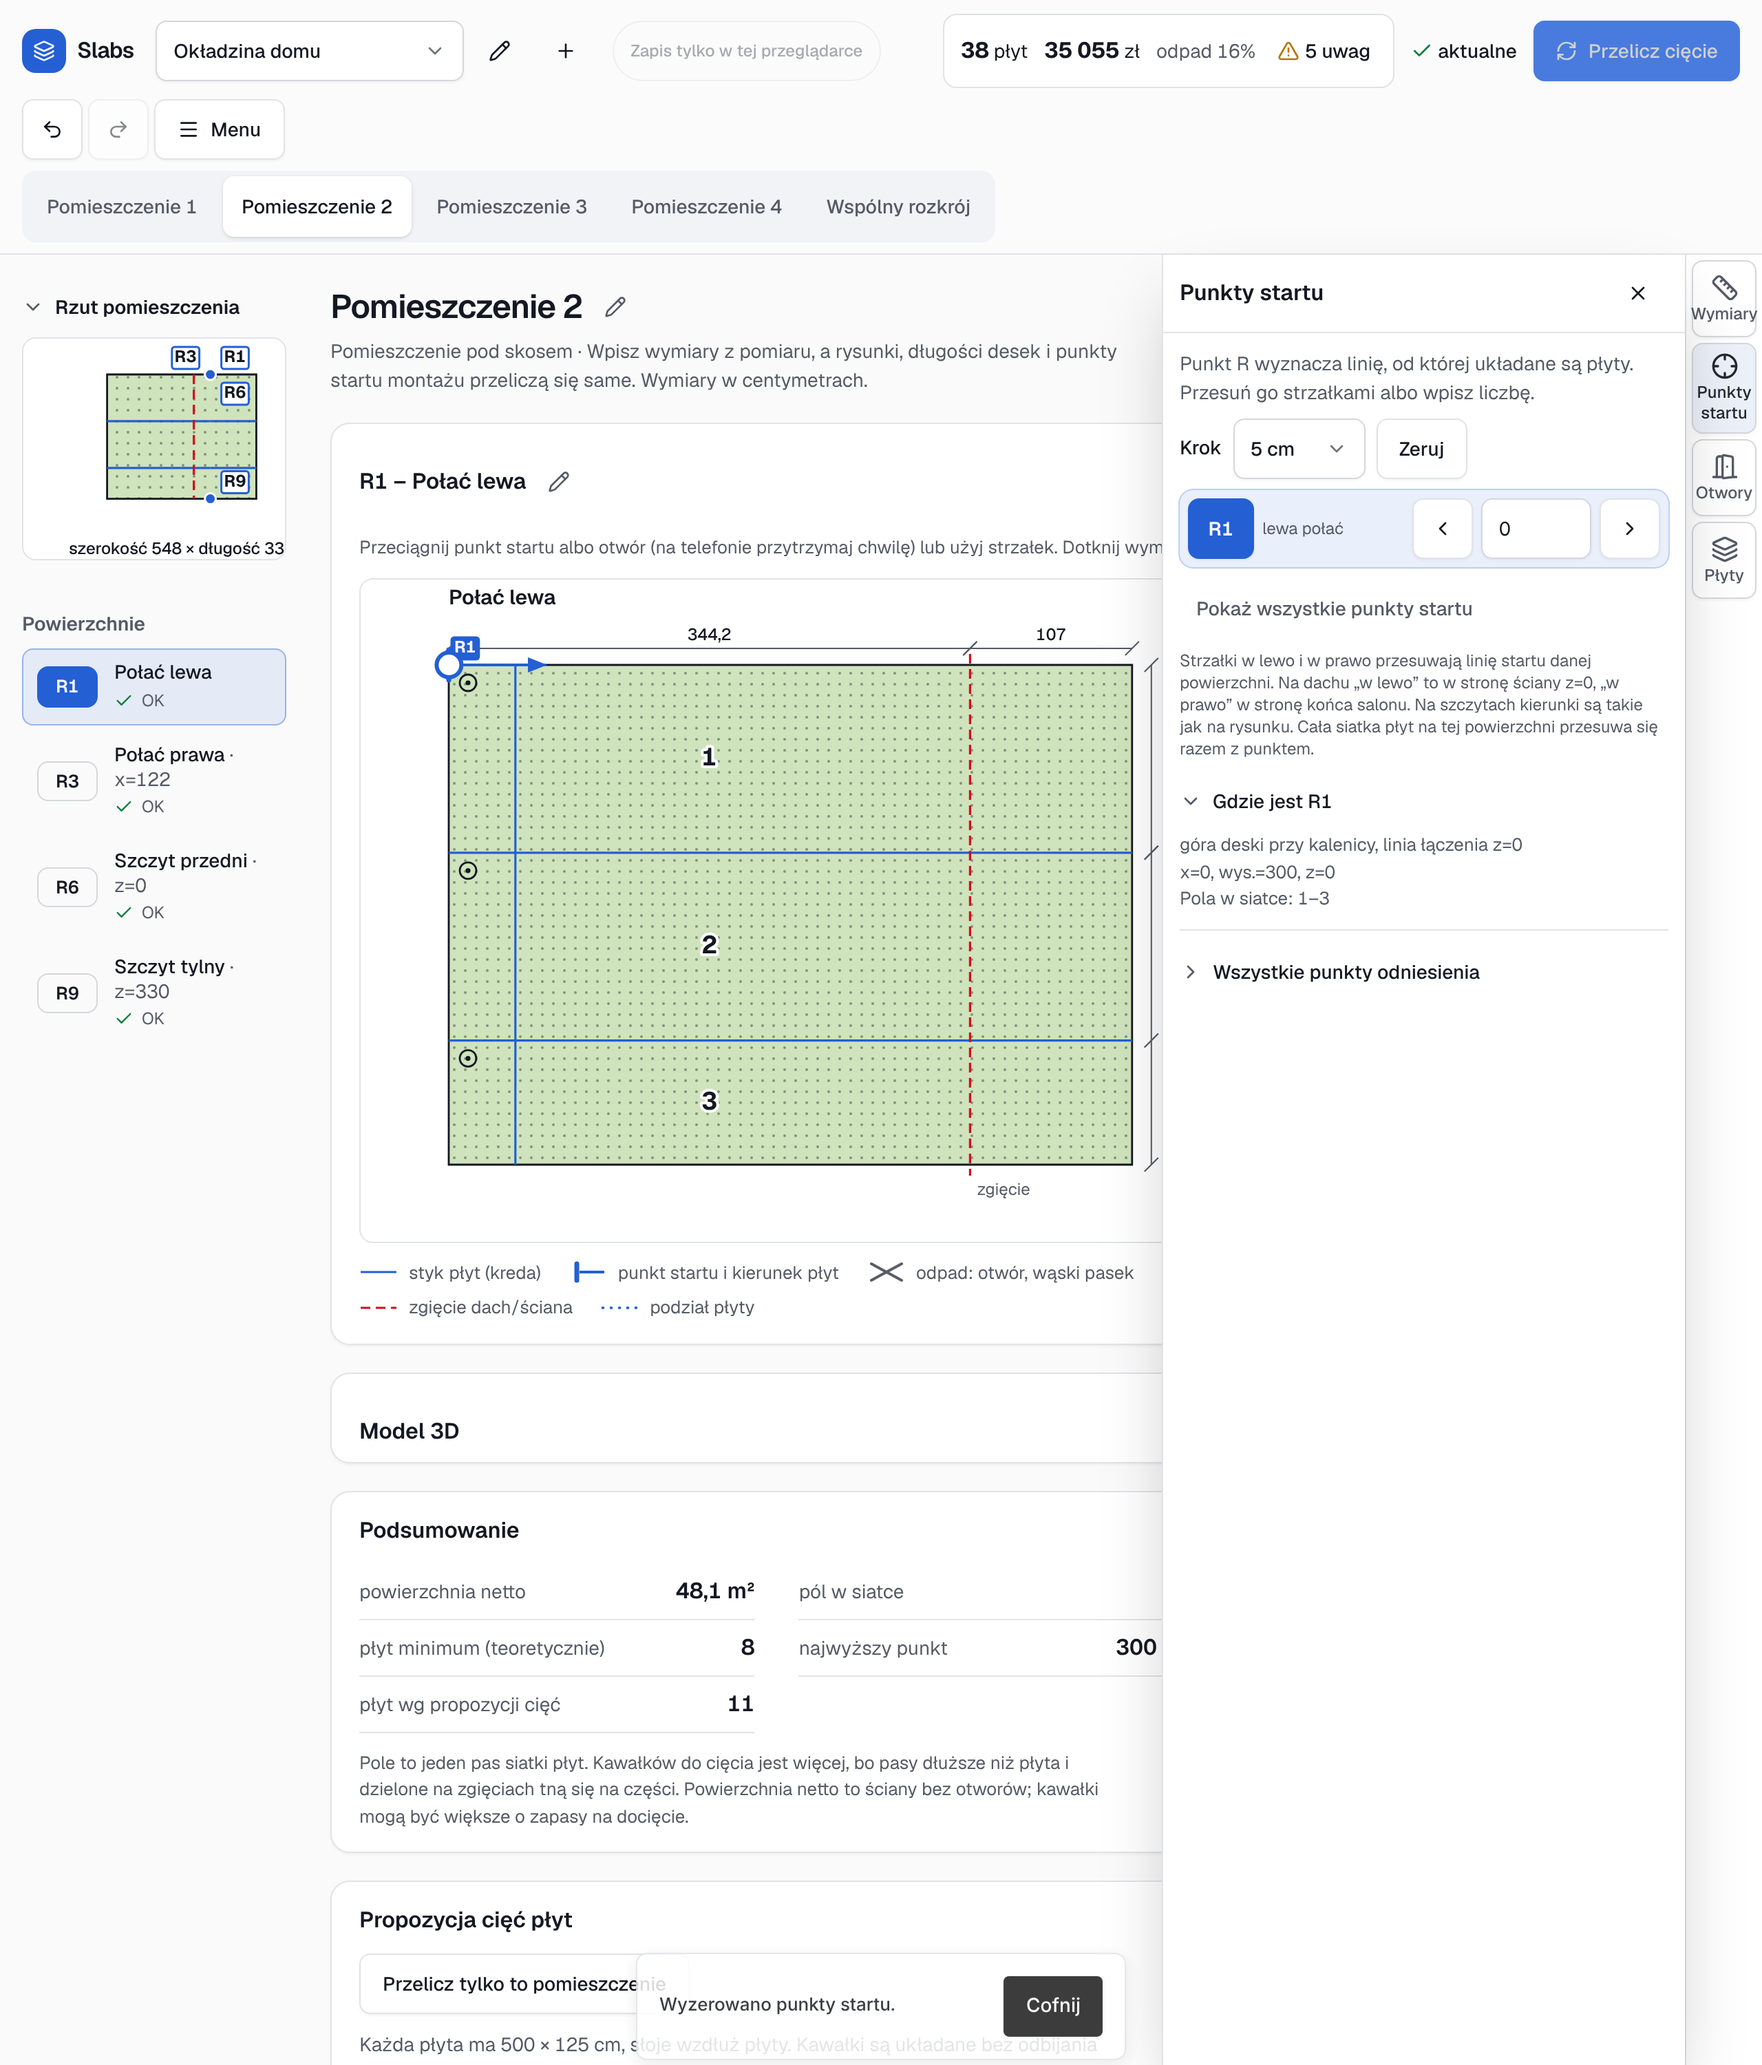
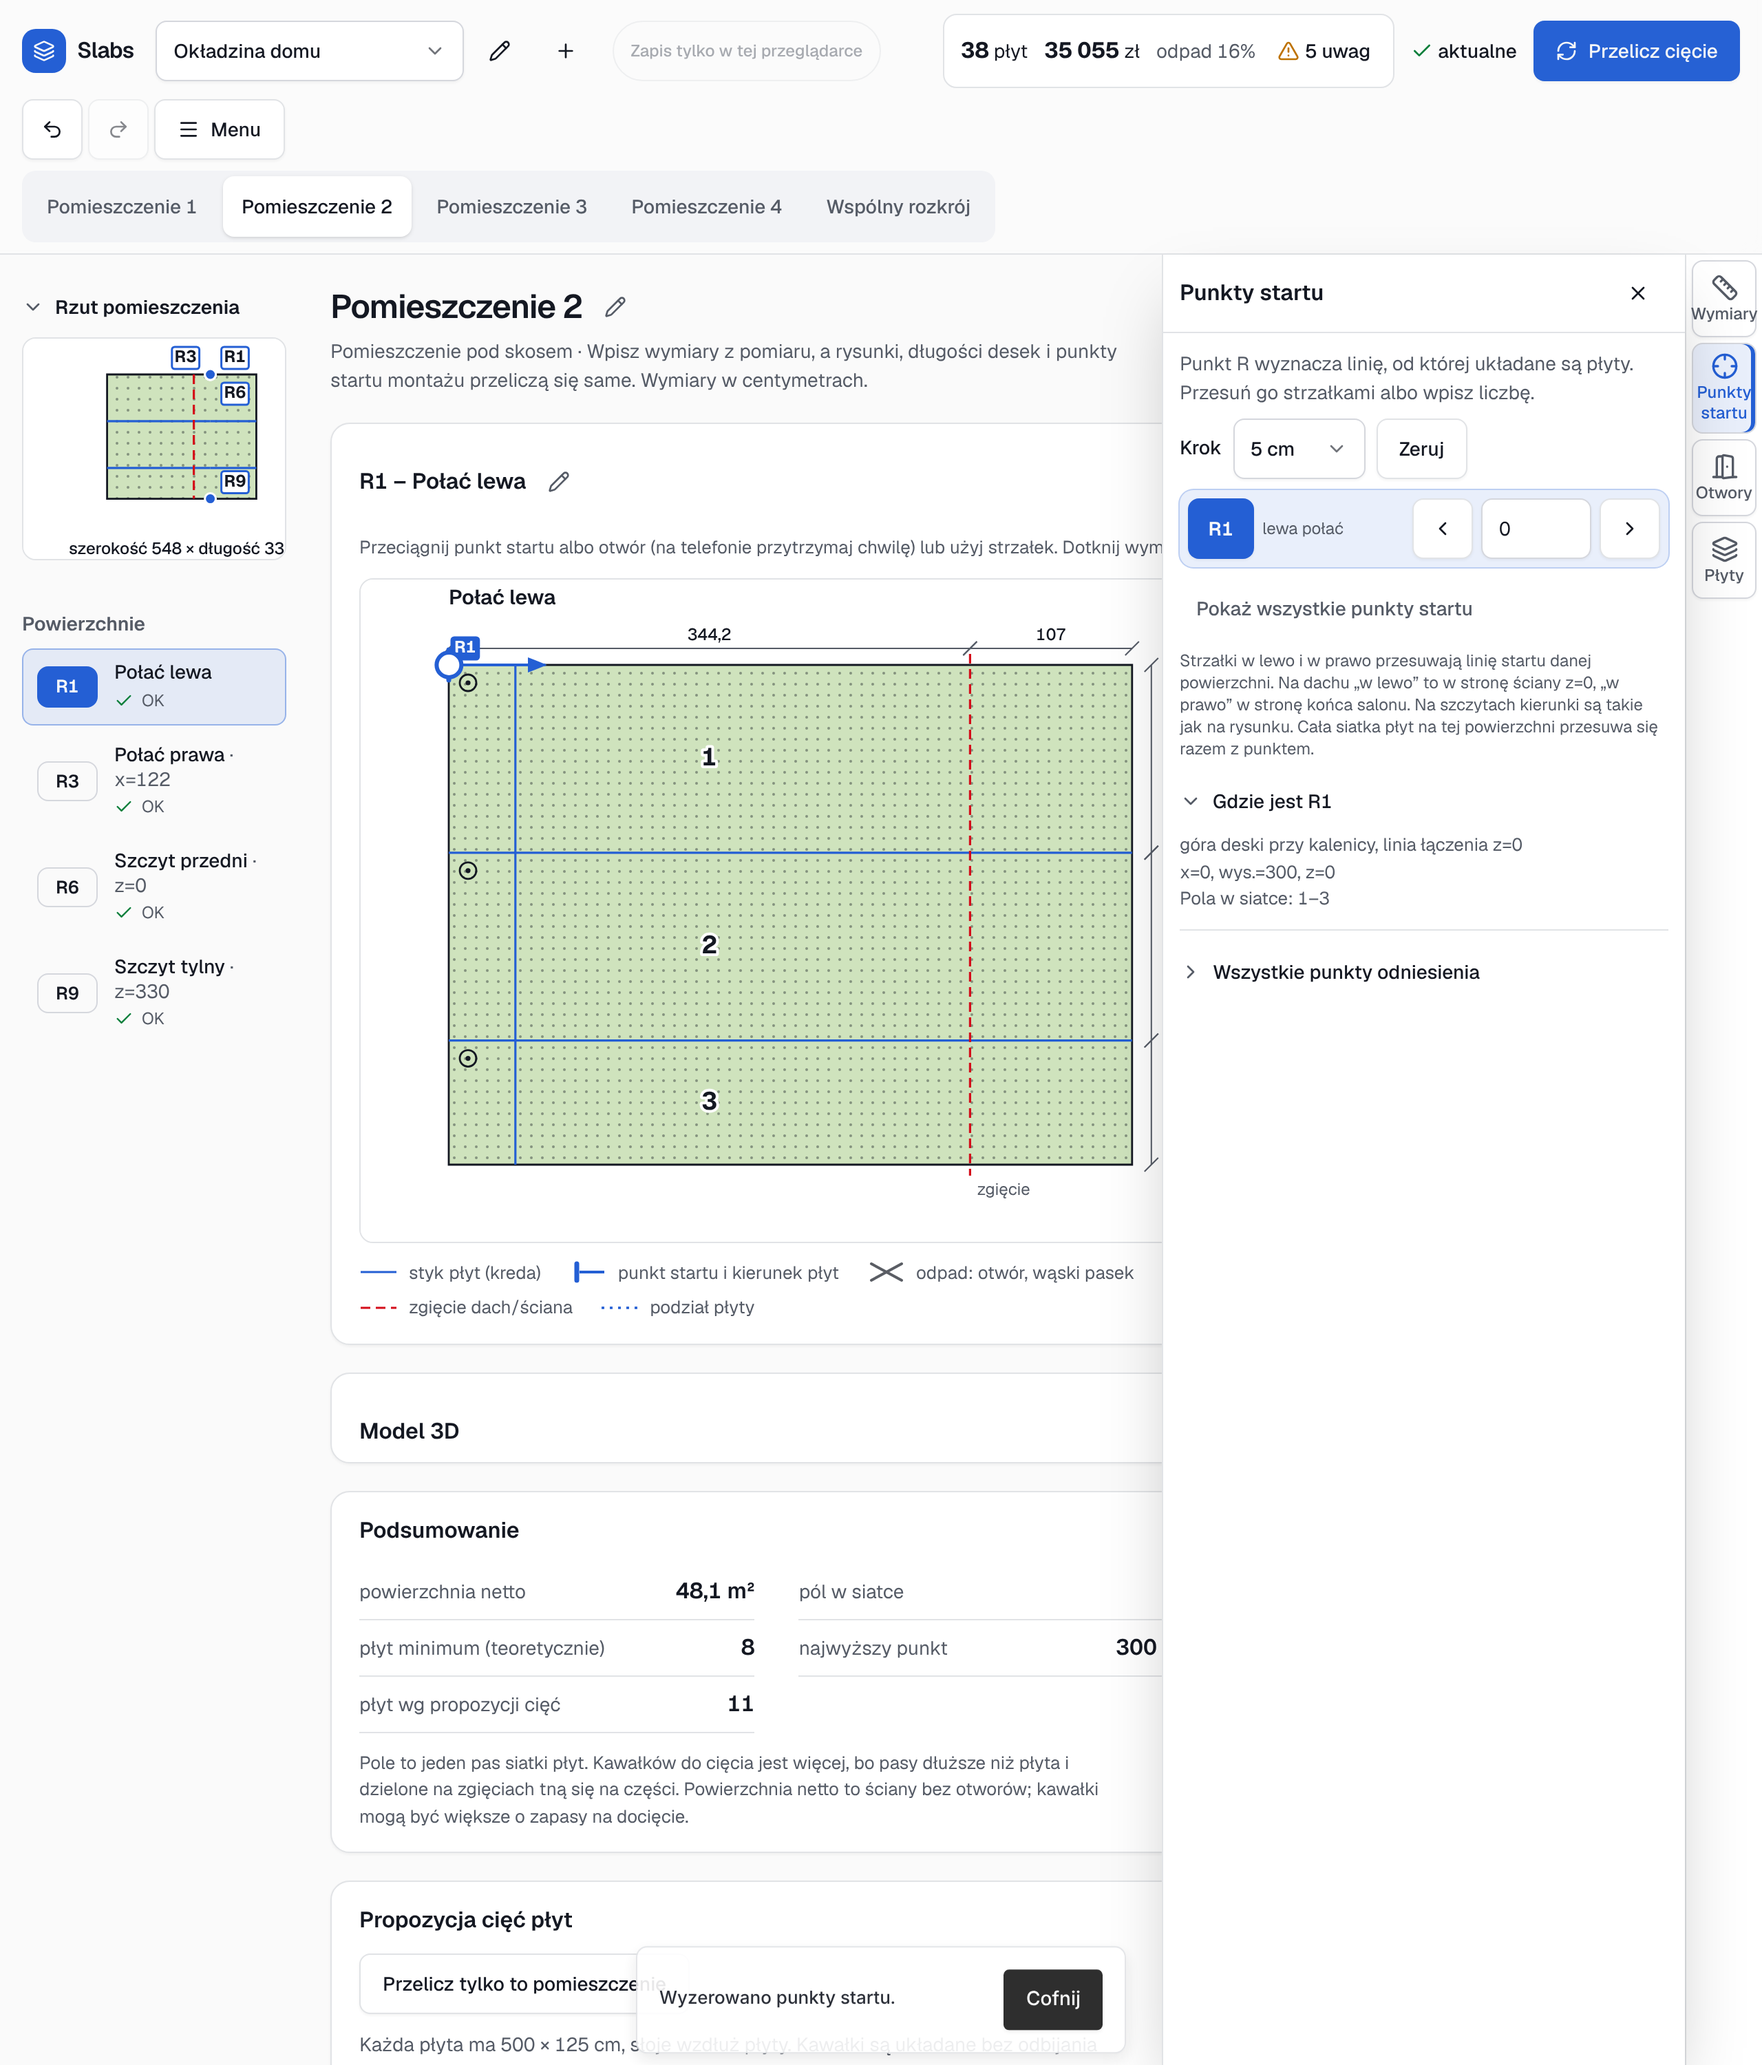
Critique fixes: rail labels, cut blocked while a dimension is missing, lighter phone sheet; STATUS with critique score 28/40
Claude-Session: https://claude.ai/code/session_01HB857o7nj1wKK8UA3BC3TK

diff --git a/packages/web/src/components/MeasurePanel.tsx b/packages/web/src/components/MeasurePanel.tsx
@@ -49,7 +49,7 @@ function RailButton({ k, room, horizontal }: { k: PanelSection; room: RoomId; ho
   return (
     <button
       type="button" data-rail={k}
-      className={cn('relative flex min-h-14 flex-col items-center justify-center gap-0.5 rounded-md px-1 py-1.5 text-center text-xs leading-tight font-medium outline-none hover:bg-accent focus-visible:ring-[3px] focus-visible:ring-ring/50', active ? 'bg-accent text-accent-foreground' : 'text-muted-foreground', horizontal && 'flex-1')}
+      className={cn('relative flex min-h-14 flex-col items-center justify-center gap-0.5 rounded-md px-0 py-1.5 text-center text-xs leading-tight font-medium break-words outline-none hover:bg-accent focus-visible:ring-[3px] focus-visible:ring-ring/50', active ? 'bg-primary/10 text-primary shadow-[inset_-3px_0_0_var(--primary)]' : 'text-muted-foreground', horizontal && 'flex-1')}
       aria-pressed={active} aria-controls="measure-panel" aria-keyshortcuts="M"
       aria-label={active ? s.panel.hide(name) : s.panel.show(name)}
       title={s.panel.shortcutHint}
@@ -61,7 +61,7 @@ function RailButton({ k, room, horizontal }: { k: PanelSection; room: RoomId; ho
     >
       <Icon className="size-5" aria-hidden="true" />
       <span aria-hidden="true">{name}</span>
-      {k === 'dims' && missing > 0 && <span className="absolute top-1 right-1.5 inline-flex min-w-4 items-center justify-center rounded-full bg-destructive px-1 text-[11px] leading-4 font-semibold text-white" aria-label={s.panel.missingShort}>{missing}</span>}
+      {k === 'dims' && missing > 0 && <span className="absolute top-1 right-1.5 inline-flex min-w-4 items-center justify-center rounded-full bg-destructive px-1 text-xs leading-4 font-semibold text-white" aria-label={s.panel.missingShort}>{missing}</span>}
     </button>
   );
 }
@@ -123,7 +123,7 @@ export function MeasurePanel({ children }: { children: (section: PanelSection) =
         <div className="min-h-0 flex-1 overflow-y-auto p-3">{open && children(section)}</div>
       </aside>
       <Sheet open={sheet} onOpenChange={(o) => { setSheet(o); if (!o) back(); }}>
-        <SheetContent side="bottom" closeLabel={s.panel.close} className="md:hidden" aria-describedby="sheet-desc" onCloseAutoFocus={(e) => { e.preventDefault(); back(); }}>
+        <SheetContent side="bottom" closeLabel={s.panel.close} className="min-h-[40dvh] max-h-[55dvh] md:hidden" aria-describedby="sheet-desc" onCloseAutoFocus={(e) => { e.preventDefault(); back(); }}>
           <SheetTitle className="px-3 pt-3 text-base font-semibold" id="sheet-h">{labelOf(section)}</SheetTitle>
           <SheetDescription id="sheet-desc" className="sr-only">{s.panel.title}</SheetDescription>
           <div className="flex gap-1 px-3" role="tablist" aria-label={s.panel.rail}>

diff --git a/packages/web/src/components/ui/sheet.tsx b/packages/web/src/components/ui/sheet.tsx
@@ -15,12 +15,12 @@ export const SheetContent = React.forwardRef<
   React.ComponentPropsWithoutRef<typeof DialogPrimitive.Content> & { side?: 'bottom' | 'right'; closeLabel?: string }
 >(({ className, children, side = 'bottom', closeLabel = 'Close', ...props }, ref) => (
   <DialogPrimitive.Portal>
-    <DialogPrimitive.Overlay className="fixed inset-0 z-50 bg-black/40 data-[state=closed]:animate-out data-[state=closed]:fade-out-0 data-[state=open]:animate-in data-[state=open]:fade-in-0" />
+    <DialogPrimitive.Overlay className="fixed inset-0 z-50 bg-black/20 data-[state=closed]:animate-out data-[state=closed]:fade-out-0 data-[state=open]:animate-in data-[state=open]:fade-in-0" />
     <DialogPrimitive.Content
       ref={ref}
       className={cn(
         'fixed z-50 flex flex-col gap-2 border bg-card text-card-foreground shadow-lg outline-none data-[state=closed]:animate-out data-[state=open]:animate-in',
-        side === 'bottom' && 'inset-x-0 bottom-0 max-h-[88dvh] rounded-t-xl border-b-0 data-[state=closed]:slide-out-to-bottom data-[state=open]:slide-in-from-bottom',
+        side === 'bottom' && 'inset-x-0 bottom-0 rounded-t-xl border-b-0 data-[state=closed]:slide-out-to-bottom data-[state=open]:slide-in-from-bottom',
         side === 'right' && 'inset-y-0 right-0 w-[380px] max-w-full border-r-0 data-[state=closed]:slide-out-to-right data-[state=open]:slide-in-from-right',
         className,
       )}

diff --git a/packages/web/src/components/RoomScreen.tsx b/packages/web/src/components/RoomScreen.tsx
@@ -182,7 +182,8 @@ export function RoomScreen({ id }: { id: RoomId }) {
             <div className="flex flex-wrap items-center gap-3">
               {busy
                 ? <Button variant="outline" onClick={() => cancelCut(id)}>{s.shared.cancel}</Button>
-                : <Button variant="outline" onClick={() => runCut(id, req)}>{s.room.cutBtn}</Button>}
+                : <Button variant="outline" disabled={missingHere} onClick={() => runCut(id, req)}>{s.room.cutBtn}</Button>}
+              {missingHere && !busy && <Button variant="link" className="h-auto min-h-11 px-1 underline" onClick={() => usePanel.getState().openAt('dims', { kind: 'dim', room: id, key: empty.find((x) => x.startsWith(id + '.'))!.slice(id.length + 1) })}>{s.panel.cutBlocked}</Button>}
               {busy && <span className="muted" role="status">{s.shared.running}</span>}
             </div>
             {entry && !fresh && <p className="flex flex-wrap items-center gap-2 text-sm"><span className="badge">{s.room.stale}</span><span className="text-muted-foreground">{s.room.staleNote}</span></p>}

diff --git a/packages/web/src/i18n/en.ts b/packages/web/src/i18n/en.ts
@@ -81,7 +81,7 @@ export const en: Strings = {
   panel: {
     rail: 'Measurements and settings panel',
     title: 'Measurement panel',
-    dims: 'Dimensions', starts: 'Start points', openings: 'Openings', plates: 'Plates',
+    dims: 'Sizes', starts: 'Starts', openings: 'Openings', plates: 'Plates',
     show: (n: string) => `Open panel: ${n}`,
     hide: (n: string) => `Close panel: ${n}`,
     close: 'Close panel (Esc)',
@@ -92,6 +92,7 @@ export const en: Strings = {
     missingHead: (n: number) => `${n} ${n === 1 ? 'dimension is' : 'dimensions are'} missing:`,
     missingShort: 'a dimension is missing',
     showInPanel: 'Show in panel',
+    cutBlocked: 'A dimension is missing: enter it first',
     sheetOf: (n: string) => `${n}: sheet at the bottom`,
     allStarts: 'All start points',
   },

diff --git a/packages/web/src/i18n/pl.ts b/packages/web/src/i18n/pl.ts
@@ -92,6 +92,7 @@ export const pl = {
     missingHead: (n: number) => `Brakuje ${n} ${n === 1 ? 'wymiaru' : 'wymiarów'}:`,
     missingShort: 'brakuje wymiaru',
     showInPanel: 'Pokaż w panelu',
+    cutBlocked: 'Brakuje wymiaru: najpierw go wpisz',
     sheetOf: (n: string) => `${n}: arkusz na dole`,
     allStarts: 'Wszystkie punkty startu',
   },

diff --git a/docs/STATUS.md b/docs/STATUS.md
@@ -118,6 +118,15 @@ Order of work: (3) tongue and groove, (2) generic names, (1) collapsible measure
 * Assumptions: the shortcut letter is M ("miary"); selecting a surface in the list does not open a closed panel (it would cover the drawing the user is looking at); on a pinned panel the 3D view and cards simply have less width; the "completeness" counts the fields that are inputs of the room (the plate size now lives in Płyty).
 * **Tests**: e2e checks the rail (56 px, four labels), closed by default, 380 px overlay that does not push the drawing, completeness, missing list + jump + highlight, popup link, Esc and focus return, M, follows the section while the surface changes, remembered after reload, pin at 1500 px (beside the drawing, Esc keeps it, remembered), phone strip + bottom sheet + Esc.
 
+### Impeccable critique of the room screen (after the three parts)
+
+Run once, dual-agent (A design review, B detector + browser evidence, isolated sub-agents; the owner was unavailable, so the questions step was substituted by deciding from the brief, PRODUCT.md and DESIGN.md).
+
+* **Score 28/40 (Good).** Strengths: completeness model (group counts, rail badge, jump link, highlight), closed-by-default rail with labels + M/Esc/pin, phone strip and bottom sheet. Weakest heuristics: consistency (2), error prevention (2).
+* Detector: source scan 27 advisory findings (26 off-ramp font sizes, 1 colour; none new in kind), URL scans only SVG text-occlusion (false positives, transparent hit layers), nested-cards on small callouts. Browser: no targets under 44 px, no text under 12 px outside drawings, no contrast failures, no console errors; **one real defect: the English rail label "Dimensions" overflowed the 56 px rail and caused 5 px of horizontal page scroll at 1280**.
+* **P1 fixed once**: (1) rail labels: English labels shortened (Sizes / Starts / Openings / Plates), label font 12 px, active button has a primary tint and edge bar; (2) "Przelicz tylko to pomieszczenie" is disabled while a measurement is missing, with a link "Brakuje wymiaru: najpierw go wpisz" that opens the panel at that field; (3) the phone sheet is 40-55 dvh with a light backdrop so the drawing stays visible above it.
+* **Not fixed (open, next pass)**: the overlay covers the drawing's right edge at 1280 px (offer a docked mode below 1440 px); layout jump of the top bar when totals appear/disappear; coordinates still in the primary surface name in the list; "Calculate cut" in the top bar is not blocked by a missing dimension; no on-screen step order for first-time DIY users; panel headings repeated; rail reached late in the Tab order (the skip link to dimensions exists).
+
 ## Test results (last run)
 
 * `pnpm test`: 724 tests passed (parity, properties, settings, render snapshots, cut sheets, marks/plates, openings, 3D scene, editing helpers, store, i18n). `pnpm e2e`: all checks passed (desktop and 390 px: tabs pattern, empty field, dependent limit reason, openings add/drag/delete with auto re-cut, 3D lazy chunk, phone status bar and bottom sheet, PDF, CSV). `pnpm typecheck`, `pnpm lint`, `pnpm build`: clean. Screenshots in `docs/screenshots/` (1280 px and 390 px) refreshed after A, B and C.
